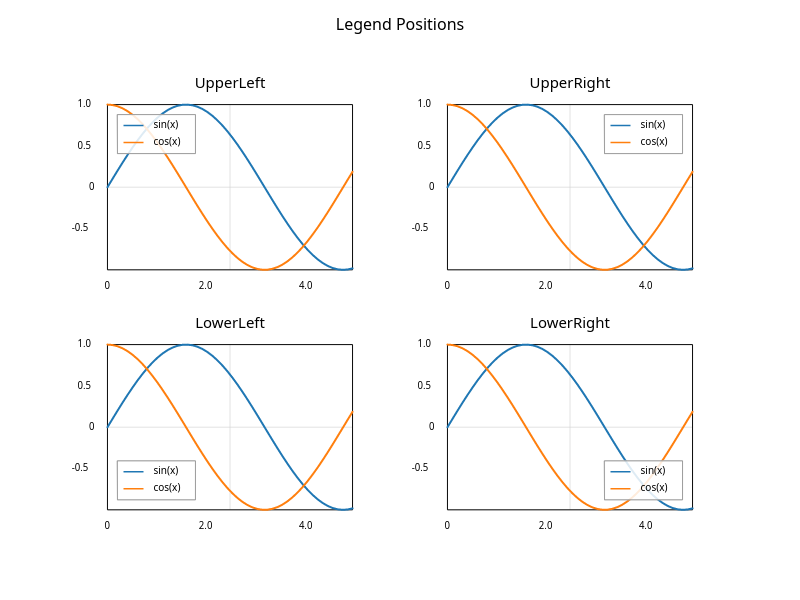
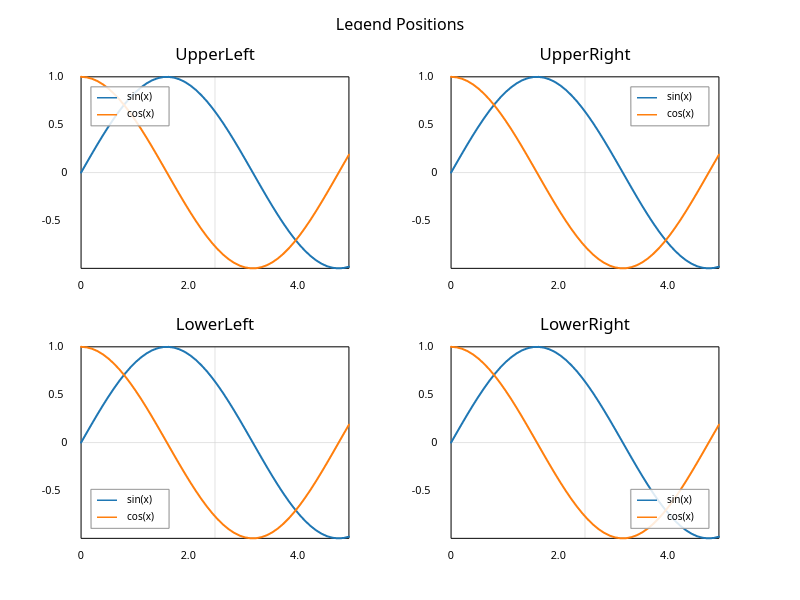
Reduce default subplot margin from 10% to 5% for tighter layout

diff --git a/src/core/subplot.rs b/src/core/subplot.rs
@@ -197,7 +197,7 @@ impl SubplotFigure {
             width,
             height,
             suptitle: None,
-            margin: 0.1, // 10% margin by default
+            margin: 0.05, // 5% margin by default - tighter layout
         })
     }
 
